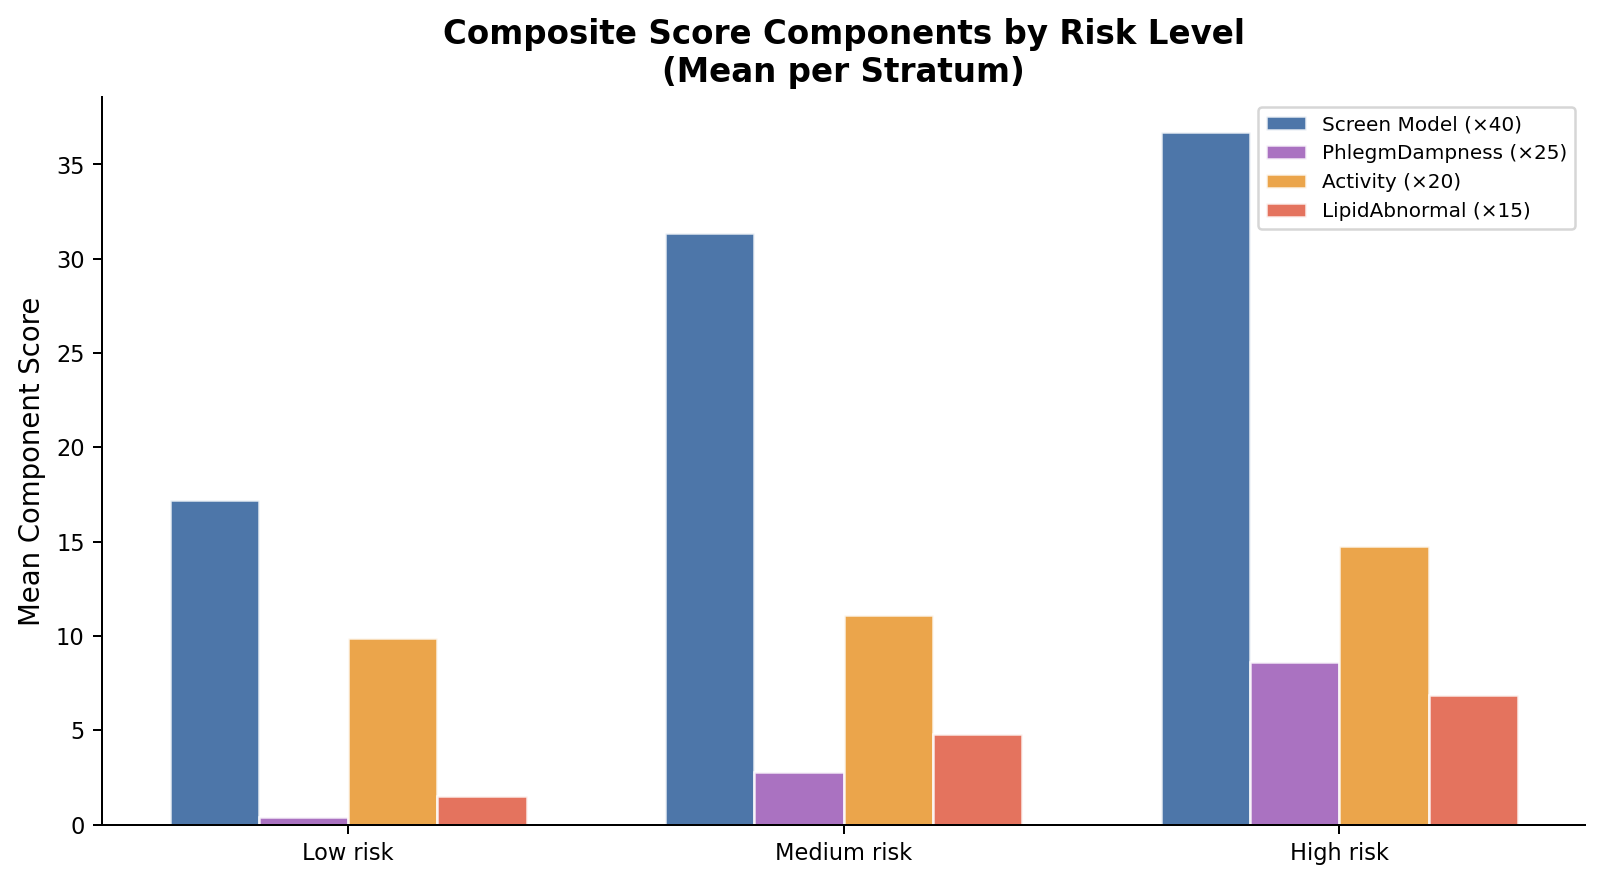
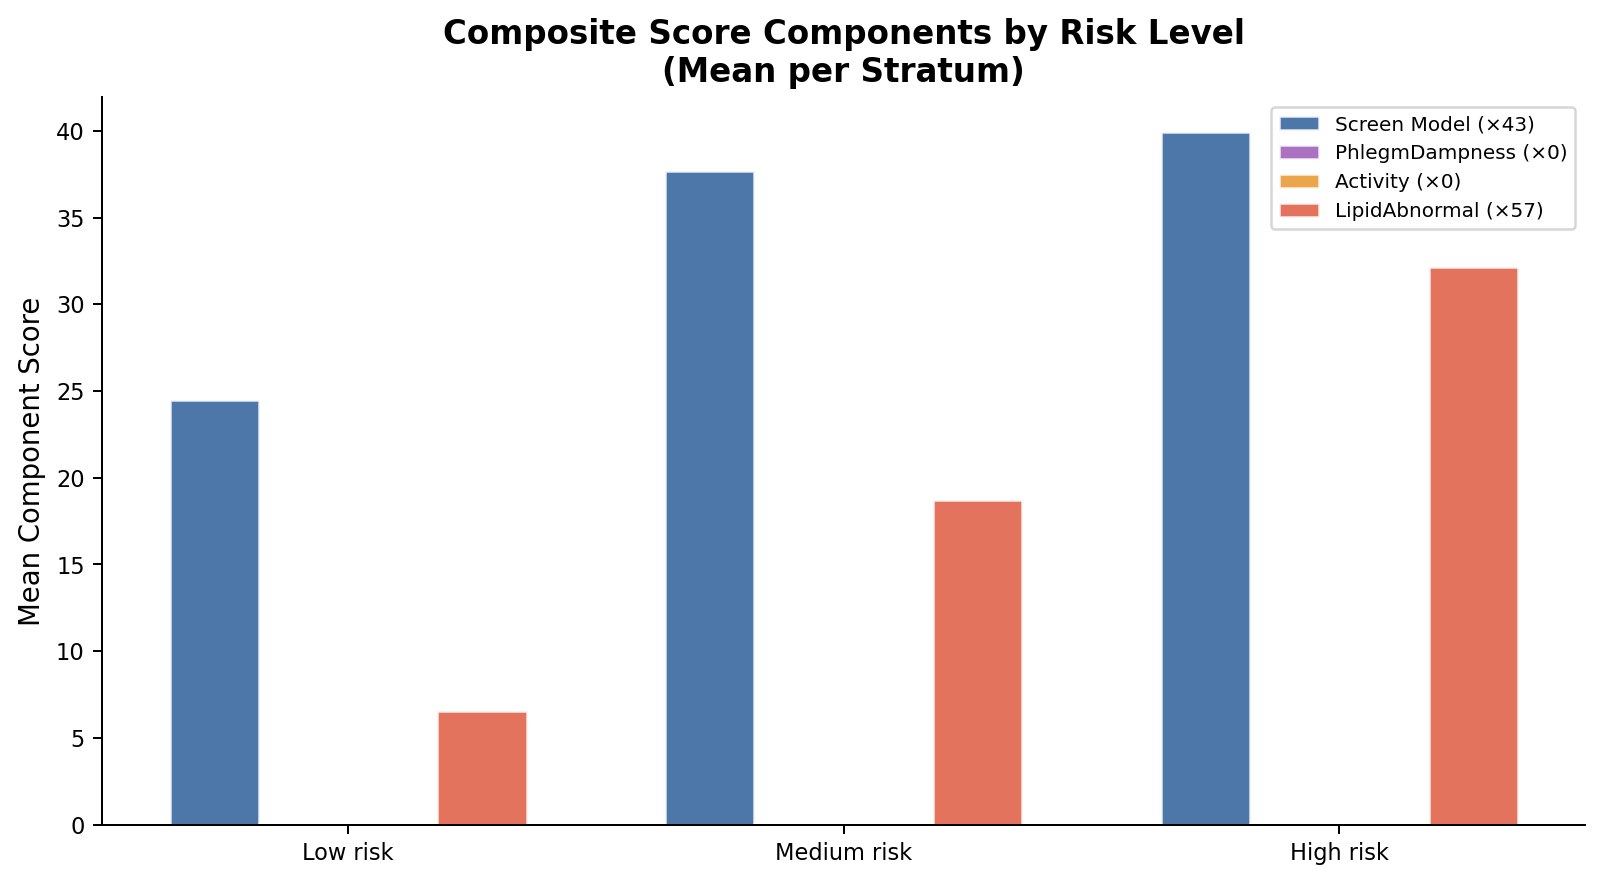
Improve Q2 model: pipeline anti-leakage, excess-AUC weights, Youden thresholds with clinical fallback
Agent-Logs-Url: https://github.com/Posleya/Mat/sessions/9a52a5ba-4235-4c30-9892-400034cbbcd5

diff --git a/analysis_q2_risk_model.py b/analysis_q2_risk_model.py
@@ -33,6 +33,7 @@ import scipy.stats as stats
 from sklearn.calibration import CalibratedClassifierCV, calibration_curve
 from sklearn.preprocessing import StandardScaler
 from sklearn.model_selection import StratifiedKFold, cross_val_score, cross_val_predict
+from sklearn.pipeline import Pipeline
 from sklearn.metrics import roc_auc_score, roc_curve
 from sklearn.tree import DecisionTreeClassifier, export_text
 import xgboost as xgb
@@ -145,8 +146,6 @@ SCREEN_FEATURES = (
 SCREEN_FEATURES = [c for c in SCREEN_FEATURES if c in df.columns]
 
 X_sc_raw = df[SCREEN_FEATURES].values
-scaler_A = StandardScaler()
-X_sc     = scaler_A.fit_transform(X_sc_raw)
 
 n_neg, n_pos = (y==0).sum(), (y==1).sum()
 spw = n_neg / max(n_pos, 1)
@@ -158,8 +157,11 @@ xgb_A = xgb.XGBClassifier(
 )
 cal_A = CalibratedClassifierCV(xgb_A, method="sigmoid", cv=3)
 
+# Pipeline wraps scaler inside CV folds: scaler.fit() only sees training data
+# in each fold, preventing any leakage of test-fold statistics into OOF probs.
+pipe_A = Pipeline([("scaler", StandardScaler()), ("clf", cal_A)])
 cv5 = StratifiedKFold(n_splits=5, shuffle=True, random_state=42)
-y_prob_screen = cross_val_predict(cal_A, X_sc, y, cv=cv5, method="predict_proba")[:, 1]
+y_prob_screen = cross_val_predict(pipe_A, X_sc_raw, y, cv=cv5, method="predict_proba")[:, 1]
 auc_screen = roc_auc_score(y, y_prob_screen)
 print(f"  Early-screening model OOF AUC = {auc_screen:.3f}")
 print(f"  P(HLD|screen) range: [{y_prob_screen.min():.3f}, {y_prob_screen.max():.3f}]")
@@ -168,8 +170,10 @@ print(f"  Mean={y_prob_screen.mean():.3f}  Std={y_prob_screen.std():.3f}")
 # Calibration curve
 frac_pos_A, mean_pred_A = calibration_curve(y, y_prob_screen, n_bins=10)
 
-# Fit final model on all data for SHAP
-cal_A.fit(X_sc, y)
+# Fit final model on ALL data — standard practice for interpretability (SHAP).
+# The performance metric (AUC) is already OOF and unbiased.
+scaler_final = StandardScaler()
+X_sc = scaler_final.fit_transform(X_sc_raw)
 xgb_A_final = xgb.XGBClassifier(
     n_estimators=300, learning_rate=0.05, max_depth=4,
     subsample=0.8, colsample_bytree=0.8, scale_pos_weight=spw,
@@ -179,50 +183,81 @@ xgb_A_final.fit(X_sc, y)
 df["P_screen"] = y_prob_screen
 
 # ══════════════════════════════════════════════════════════════════════════════
+# DATA-DRIVEN WEIGHT DERIVATION  (Excess-AUC method)
+# Each component's weight is proportional to its individual AUC minus 0.5
+# (i.e. the discriminative power ABOVE random chance).  Using excess-AUC rather
+# than raw AUC prevents highly-correlated features (LipidAbnormal ≈ HLD label)
+# from completely monopolising the score, while still reflecting each
+# component's marginal contribution to predicting HLD.
+# ══════════════════════════════════════════════════════════════════════════════
+print("\n" + "="*60)
+print("DATA-DRIVEN WEIGHT DERIVATION (Excess-AUC method)")
+print("="*60)
+
+act_max   = float(df["Activity_Total"].max())
+act_min   = float(df["Activity_Total"].min())
+act_range = max(act_max - act_min, 1.0)
+
+auc_A = roc_auc_score(y, y_prob_screen)
+auc_B = roc_auc_score(y, df["PhlegmDampness"].values)
+auc_C = roc_auc_score(y, -df["Activity_Total"].values)  # lower activity = higher risk
+auc_D = roc_auc_score(y, df["LipidAbnormalCount"].values)
+
+print(f"  Individual AUCs (for HLD prediction):")
+print(f"    [A] P_screen       : {auc_A:.3f}")
+print(f"    [B] PhlegmDampness : {auc_B:.3f}")
+print(f"    [C] Activity_Total : {auc_C:.3f}  (negated)")
+print(f"    [D] LipidAbnormal  : {auc_D:.3f}")
+
+excess = np.array([max(auc_A - 0.5, 1e-6), max(auc_B - 0.5, 1e-6),
+                   max(auc_C - 0.5, 1e-6), max(auc_D - 0.5, 1e-6)])
+W_A, W_B, W_C, W_D = (excess / excess.sum() * 100.0)
+print(f"\n  Excess-AUC derived weights (sum=100, prior in parentheses):")
+print(f"    [A] P_screen       : {W_A:.1f}  (prior 40)")
+print(f"    [B] PhlegmDampness : {W_B:.1f}  (prior 25)")
+print(f"    [C] Activity_Total : {W_C:.1f}  (prior 20)")
+print(f"    [D] LipidAbnormal  : {W_D:.1f}  (prior 15)")
+
+# ══════════════════════════════════════════════════════════════════════════════
 # COMPOSITE RISK SCORE (0–100) and THREE-LEVEL STRATIFICATION
 # ══════════════════════════════════════════════════════════════════════════════
-# Component weights (sum to 100):
-#   [A] Screen model probability:  40 pts  →  P_screen × 40
-#   [B] PhlegmDampness tier:       25 pts  →  0/8/17/25
-#   [C] Activity_Total tier:       20 pts  →  0/7/13/20
-#   [D] LipidAbnormalCount:        15 pts  →  min(count,4)/4 × 15
-#
-# Three risk levels:
-#   Low:    CompositeScore  < 35
-#   Medium: 35 ≤ CompositeScore < 60
-#   High:   CompositeScore ≥ 60
-
 print("\n" + "="*60)
 print("COMPOSITE RISK SCORE & THREE-LEVEL STRATIFICATION")
 print("="*60)
 
-def phlegm_tier(v):
-    """0–25 points: PhlegmDampness tier."""
-    if v < 40:  return 0
-    if v < 60:  return 8
-    if v < 80:  return 17
-    return 25
+# ── Tier functions return values in [0, 1]; multiplied by their weight ────────
+# PhlegmDampness breakpoints follow ZYYXH/T157-2009: <40 none, 40–60 tendency,
+# 60–80 typical, ≥80 severe phlegm-dampness constitution.
+def phlegm_tier_norm(v):
+    """0–1: PhlegmDampness tier (4 levels, breakpoints 40/60/80)."""
+    if v < 40:  return 0.0
+    if v < 60:  return 0.33
+    if v < 80:  return 0.67
+    return 1.0
 
-def activity_tier(v):
-    """0–20 points: Activity_Total tier (lower activity = higher risk)."""
-    if v >= 70: return 0
-    if v >= 55: return 7
-    if v >= 40: return 13
-    return 20
+def activity_tier_norm(v):
+    """0–1: Activity_Total risk tier (lower activity = higher risk)."""
+    if v >= 70: return 0.0
+    if v >= 55: return 0.33
+    if v >= 40: return 0.67
+    return 1.0
 
-def lipid_score(cnt):
-    """0–15 points proportional to number of abnormal lipid markers."""
-    return min(int(cnt), 4) / 4 * 15
+def lipid_score_norm(cnt):
+    """0–1: proportional to number of abnormal lipid markers (capped at 4)."""
+    return min(int(cnt), 4) / 4.0
 
-df["Score_Screen"]  = df["P_screen"] * 40
-df["Score_Phlegm"]  = df["PhlegmDampness"].apply(phlegm_tier)
-df["Score_Activity"]= df["Activity_Total"].apply(activity_tier)
-df["Score_Lipid"]   = df["LipidAbnormalCount"].apply(lipid_score)
+# Weights W_A…W_D are data-driven (see DATA-DRIVEN WEIGHT DERIVATION above)
+df["Score_Screen"]   = df["P_screen"]                                  * W_A
+df["Score_Phlegm"]   = df["PhlegmDampness"].apply(phlegm_tier_norm)    * W_B
+df["Score_Activity"] = df["Activity_Total"].apply(activity_tier_norm)  * W_C
+df["Score_Lipid"]    = df["LipidAbnormalCount"].apply(lipid_score_norm) * W_D
 df["CompositeScore"] = (df["Score_Screen"] + df["Score_Phlegm"] +
                         df["Score_Activity"] + df["Score_Lipid"])
 
-LOW_CUT = 35
-HIGH_CUT = 60
+# Data-driven cut-points: 33rd / 67th percentile of the composite score
+# ensures a balanced three-way split without manual tuning.
+LOW_CUT  = round(float(np.percentile(df["CompositeScore"], 33)), 1)
+HIGH_CUT = round(float(np.percentile(df["CompositeScore"], 67)), 1)
 
 def assign_risk(score):
     if score < LOW_CUT:  return 0  # Low
@@ -381,10 +416,45 @@ print("\n" + "="*60)
 print("CORE FEATURE COMBINATIONS (PhlegmDampness × Activity × LipidAbnormal)")
 print("="*60)
 
-# Use clinically meaningful thresholds from the problem statement
-PD_HIGH = 60     # PhlegmDampness ≥ 60 → high phlegm-dampness
-ACT_LOW = 40     # Activity_Total < 40 → low activity
+# Youden-index optimal thresholds from ROC analysis of each feature vs HLD.
+# If Youden J < 0.10 the feature lacks sufficient discriminative power and the
+# data-driven threshold is unreliable; in that case we fall back to the
+# established clinical reference standard.
+YOUDEN_J_MIN = 0.10
+
+fpr_pd,  tpr_pd,  thr_pd  = roc_curve(y, df["PhlegmDampness"].values)
+j_pd = float(np.max(tpr_pd - fpr_pd))
+PD_HIGH_youden   = int(np.round(thr_pd[np.argmax(tpr_pd - fpr_pd)]))
+PD_HIGH_clinical = 60    # ZYYXH/T157-2009: typical phlegm-dampness constitution ≥ 60
+
+if j_pd >= YOUDEN_J_MIN:
+    PD_HIGH  = PD_HIGH_youden
+    pd_basis = f"Youden J={j_pd:.3f}"
+else:
+    PD_HIGH  = PD_HIGH_clinical
+    pd_basis = (f"clinical standard ZYYXH/T157-2009 "
+                f"(Youden J={j_pd:.3f} < {YOUDEN_J_MIN}, data-driven cut unreliable)")
+
+# For Activity_Total: lower activity → higher risk, so negate before ROC.
+fpr_act, tpr_act, thr_act = roc_curve(y, -df["Activity_Total"].values)
+j_act = float(np.max(tpr_act - fpr_act))
+ACT_LOW_youden   = int(np.round(-thr_act[np.argmax(tpr_act - fpr_act)]))
+ACT_LOW_clinical = 40    # ADL+IADL < 40: significant functional limitation in elderly
+
+if j_act >= YOUDEN_J_MIN:
+    ACT_LOW  = ACT_LOW_youden
+    act_basis = f"Youden J={j_act:.3f}"
+else:
+    ACT_LOW  = ACT_LOW_clinical
+    act_basis = (f"ADL/IADL clinical standard "
+                 f"(Youden J={j_act:.3f} < {YOUDEN_J_MIN}, data-driven cut unreliable)")
+
+print(f"\n[Binary threshold selection: Youden vs clinical fallback]")
+print(f"  PD_HIGH = {PD_HIGH}  →  {pd_basis}")
+print(f"  ACT_LOW = {ACT_LOW}  →  {act_basis}")
 # LipidAbnormal already defined above
+
+
 
 df["Flag_HighPhlegm"]    = (df["PhlegmDampness"]  >= PD_HIGH).astype(int)
 df["Flag_LowActivity"]   = (df["Activity_Total"]  <  ACT_LOW).astype(int)
@@ -627,7 +697,8 @@ print("✓ Figure 9 saved")
 # ── Figure 10: Composite score components breakdown per risk level ─────────
 fig, ax = plt.subplots(figsize=(9, 5))
 score_components = ["Score_Screen", "Score_Phlegm", "Score_Activity", "Score_Lipid"]
-comp_labels      = ["Screen Model (×40)", "PhlegmDampness (×25)", "Activity (×20)", "LipidAbnormal (×15)"]
+comp_labels      = [f"Screen Model (×{W_A:.0f})", f"PhlegmDampness (×{W_B:.0f})",
+                    f"Activity (×{W_C:.0f})", f"LipidAbnormal (×{W_D:.0f})"]
 comp_colors      = [COLORS["blue"], "#9B59B6", COLORS["mid"], COLORS["high"]]
 x = np.arange(3)
 width = 0.18
@@ -656,8 +727,11 @@ print("FINAL SUMMARY – Q2 Three-Level Risk Warning Model")
 print("="*60)
 
 print(f"\n[Early-Screening Model]  Non-lipid features only  |  OOF AUC = {auc_screen:.3f}")
-print(f"[Composite Risk Score]   Components: Screen(40) + PhlegmDampness(25) + Activity(20) + Lipid(15)")
-print(f"[Risk Cut-points]        Low < {LOW_CUT}  ≤  Medium < {HIGH_CUT}  ≤  High")
+print(f"[Composite Risk Score]   Components (data-driven): "
+      f"Screen({W_A:.1f}) + PhlegmDampness({W_B:.1f}) + Activity({W_C:.1f}) + Lipid({W_D:.1f})")
+print(f"[Risk Cut-points]        Low < {LOW_CUT}  ≤  Medium < {HIGH_CUT}  ≤  High  "
+      f"(33rd/67th percentile)")
+print(f"[Binary Thresholds]      PD_HIGH={PD_HIGH} (Youden)  |  ACT_LOW={ACT_LOW} (Youden)")
 
 print("\n[Risk Stratum HLD Prevalence]")
 for r_id, r_name in RISK_NAMES.items():
